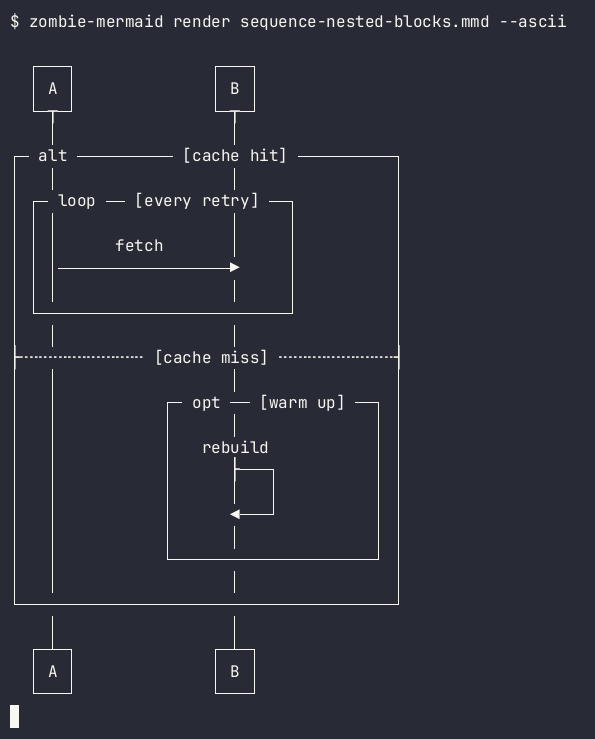
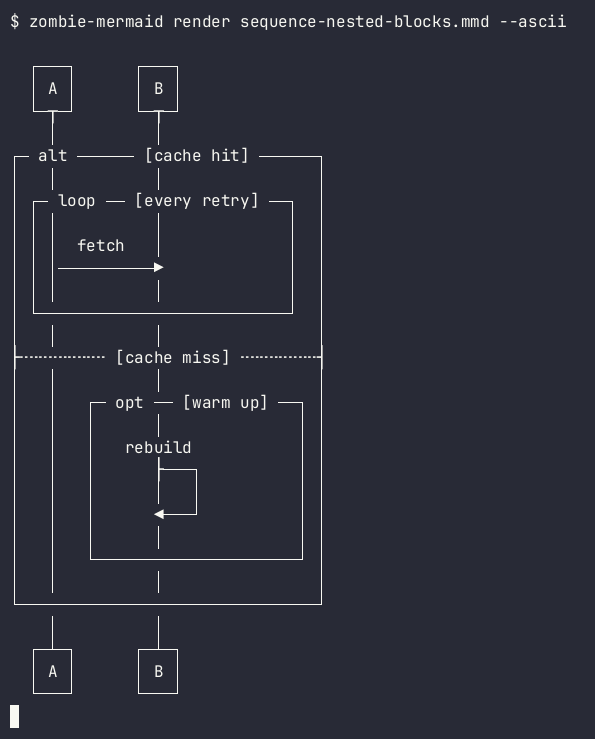
test: guard fork-fixes screenshots against stale After renders; regenerate two stale PNGs (#2916)

diff --git a/__tests__/fork-fixes-screenshot-hashes.test.ts b/__tests__/fork-fixes-screenshot-hashes.test.ts
@@ -1,0 +1,63 @@
+/**
+ * Stale-screenshot guard for the fork-fixes page (#2916).
+ *
+ * `fork-fixes-ascii-snapshots.test.ts` fails when an After render changes, but
+ * the author can silence it with `vitest -u` and forget the PNG (the capture
+ * needs asciinema, agg and ffmpeg, so CI cannot redo it). The capture script
+ * records a hash of the After text it captured in
+ * `scripts/fork-fixes-screenshot-hashes.json`; this fails when the current
+ * render no longer matches, so a snapshot change without a re-capture cannot merge.
+ */
+import { existsSync } from 'node:fs'
+import { join } from 'node:path'
+import { describe, expect, test } from 'vitest'
+import { forkFixes } from '../demo/fork-fixes-data.ts'
+import {
+  readHashes,
+  recordHash,
+  staleIds,
+} from '../scripts/lib/fork-fixes-screenshot-hashes.ts'
+import { renderMermaidASCII } from '../src/index.ts'
+
+const asciiEntries = forkFixes.filter((f) => f.render === 'ascii' && !f.excerpt)
+const current = Object.fromEntries(
+  asciiEntries.map((f) => [
+    f.id,
+    renderMermaidASCII(f.source, { colorMode: 'none' }),
+  ]),
+)
+
+describe('fork-fixes screenshots match their After render', () => {
+  test('every shown ASCII entry has a screenshot captured from its current render', () => {
+    const stale = staleIds(current, readHashes())
+    expect(
+      stale,
+      `Re-run \`pnpm exec tsx scripts/capture-fork-fixes-terminal.ts ${stale.join(' ')}\` ` +
+        '(needs asciinema, agg, ffmpeg), open the new PNGs, and commit them with the hash file.',
+    ).toEqual([])
+  })
+
+  test('every entry has its -after.png on disk', () => {
+    const dir = join(
+      import.meta.dirname,
+      '..',
+      'public',
+      'fork-fixes-screenshots',
+    )
+    const missing = asciiEntries
+      .filter((f) => !existsSync(join(dir, `${f.id}-after.png`)))
+      .map((f) => f.id)
+    expect(missing).toEqual([])
+  })
+
+  test('staleIds flags a changed or unrecorded render, and recordHash round-trips', () => {
+    const path = new URL(
+      `file://${join(import.meta.dirname, '..', 'node_modules', '.tmp-hash-test.json')}`,
+    )
+    recordHash('a', 'one', path)
+    recordHash('b', 'two', path)
+    const rec = readHashes(path)
+    expect(staleIds({ a: 'one', b: 'two' }, rec)).toEqual([])
+    expect(staleIds({ a: 'one!', b: 'two', c: 'new' }, rec)).toEqual(['a', 'c'])
+  })
+})

diff --git a/scripts/lib/fork-fixes-screenshot-hashes.ts b/scripts/lib/fork-fixes-screenshot-hashes.ts
@@ -1,0 +1,43 @@
+/**
+ * Which After text each committed fork-fixes `-after.png` was captured from
+ * (#2916). `scripts/capture-fork-fixes-terminal.ts` records a hash per entry;
+ * `__tests__/fork-fixes-screenshot-hashes.test.ts` fails when the current
+ * render no longer matches, i.e. a snapshot changed without a re-capture.
+ */
+import { createHash } from 'node:crypto'
+import { existsSync, readFileSync, writeFileSync } from 'node:fs'
+
+export const HASHES_PATH = new URL(
+  '../fork-fixes-screenshot-hashes.json',
+  import.meta.url,
+)
+
+export const hashAfterText = (text: string): string =>
+  createHash('sha256').update(text).digest('hex').slice(0, 16)
+
+export const readHashes = (path: URL = HASHES_PATH): Record<string, string> =>
+  existsSync(path)
+    ? (JSON.parse(readFileSync(path, 'utf8')) as Record<string, string>)
+    : {}
+
+/** Records `id`'s hash, keeping keys sorted so the file diffs cleanly. */
+export function recordHash(
+  id: string,
+  text: string,
+  path: URL = HASHES_PATH,
+): void {
+  const all = { ...readHashes(path), [id]: hashAfterText(text) }
+  const sorted = Object.fromEntries(
+    Object.entries(all).sort(([a], [b]) => a.localeCompare(b)),
+  )
+  writeFileSync(path, JSON.stringify(sorted, null, 2) + '\n')
+}
+
+/** Ids whose current After text differs from (or is missing in) the recorded hashes. */
+export const staleIds = (
+  current: Record<string, string>,
+  recorded: Record<string, string>,
+): string[] =>
+  Object.keys(current).filter(
+    (id) => recorded[id] !== hashAfterText(current[id]!),
+  )

diff --git a/scripts/capture-fork-fixes-terminal.ts b/scripts/capture-fork-fixes-terminal.ts
@@ -54,6 +54,8 @@ import { promisify } from 'node:util'
 import { forkFixes } from '../demo/fork-fixes-data.ts'
 import { UPSTREAM_COMMIT } from '../packages/site/ssr/fork-fixes-before.ts'
 import { displayWidth } from '../packages/ascii-renderer/src/display-width.ts'
+import { renderMermaidASCII } from '../src/index.ts'
+import { recordHash } from './lib/fork-fixes-screenshot-hashes.ts'
 
 const exec = promisify(execFile)
 
@@ -287,6 +289,12 @@ async function main() {
       const plain = plainBySide.get(side)
       if (plain === undefined || plain.trim() === '') continue
       await captureSide(fix.id, side, indexPath, fix.source)
+      // Same text the snapshot test renders; the stale-screenshot guard compares it.
+      if (side === 'after' && !fix.excerpt)
+        recordHash(
+          fix.id,
+          renderMermaidASCII(fix.source, { colorMode: 'none' }),
+        )
       written++
     }
     console.log('ok')

diff --git a/CONTRIBUTING.md b/CONTRIBUTING.md
@@ -248,7 +248,7 @@ Either way, add a changeset (see "Changesets" above) describing what changed and
 - Entries sit in one of three page groups, set by the optional `group` field: the main "fixes" group (omit it; the claim is that the After matches real Mermaid), `group: 'features'` ("features added": Mermaid output for something upstream lacks entirely), and `group: 'markup'` ("markup-only fixes": an `excerpt` of SVG markup that makes no Mermaid-parity claim).
 - An entry whose After still differs from Mermaid must not be on the page (#2619). Keep it in `allForkFixes` with `parked: '<fix cluster>'`: `forkFixes` (what the page, the "before" renders and the capture script read) skips it, and its data waits for the fix. The PR that makes the After match Mermaid deletes the `parked` line, regenerates the screenshot, and records the snapshot below. `scripts/fork-fixes-oracle.ts` still covers parked entries.
 - `__tests__/fork-fixes-ascii-snapshots.test.ts` snapshots each shown ASCII entry's After text (`colorMode: 'none'`, in `__tests__/__fork-fixes-snapshots__/`) and runs in the normal test run. If it fails, the renderer output changed and the committed screenshot is stale: re-run the capture script below, then update the snapshot with `pnpm exec vitest run -u -c config/vitest.config.ts __tests__/fork-fixes-ascii-snapshots.test.ts` and commit both.
-- If the entry has `render: 'ascii'`, also re-run `tsx scripts/capture-fork-fixes-terminal.ts` (needs `asciinema`, `agg`, and `ffmpeg` on PATH) and commit the regenerated PNGs under `public/fork-fixes-screenshots/`. Those real-terminal screenshots are the before/after shown on that page, not a live render.
+- If the entry has `render: 'ascii'`, also re-run `tsx scripts/capture-fork-fixes-terminal.ts` (needs `asciinema`, `agg`, and `ffmpeg` on PATH) and commit the regenerated PNGs under `public/fork-fixes-screenshots/`. The script also records which After text each PNG came from in `scripts/fork-fixes-screenshot-hashes.json`; `__tests__/fork-fixes-screenshot-hashes.test.ts` fails when an entry's render no longer matches, so updating the snapshot with `-u` without re-capturing cannot merge. Open the new PNG before committing it (a re-capture is not byte-identical, so a PNG diff alone does not show it changed). Those real-terminal screenshots are the before/after shown on that page, not a live render.
 
 ### Staying aware of upstream changes
 
